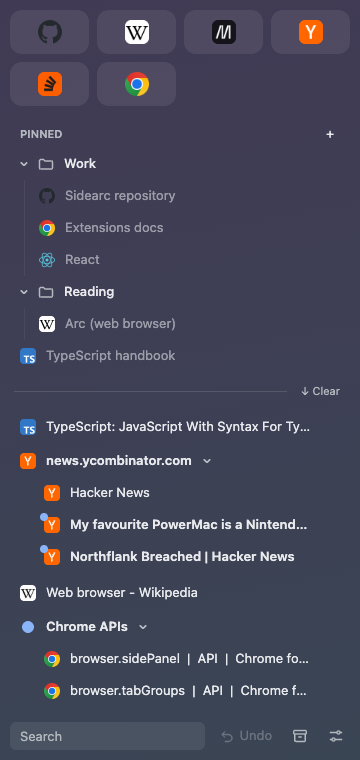
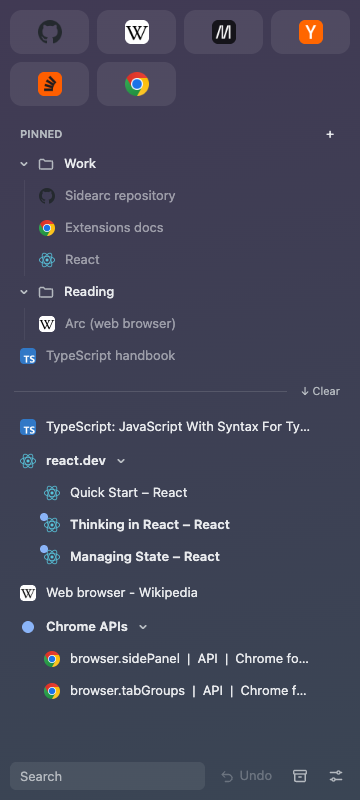
docs: add the privacy policy and the Chrome Web Store listing
The store asks for a privacy policy URL, because Sidearc reads the addresses of tabs. docs/store/listing.md holds the text, permission justifications and images for each tab of the developer dashboard. The README panel images now show neutral tab titles.

diff --git a/docs/store/listing.md b/docs/store/listing.md
@@ -1,0 +1,101 @@
+# Chrome Web Store listing
+
+This file holds the text and the images to paste into the [Chrome Web Store Developer Dashboard](https://chrome.google.com/webstore/developer/dashboard) for Sidearc. The dashboard is the Google site where a developer uploads an extension and fills its store page. Each section below matches one tab of the dashboard.
+
+## Package
+
+1. Run `npm run zip`. WXT, the build tool of Sidearc, writes `.output/sidearc-<version>-chrome.zip`.
+2. Upload this ZIP file in the **Package** tab.
+
+Before each release, increase `version` in `package.json`. The store refuses a version that it already has.
+
+## Store listing tab
+
+**Name** (from the manifest): Sidearc
+
+**Summary** (from the manifest, 132 characters at most): An Arc-like sidebar in the Chrome side panel.
+
+**Category**: Workflow & Planning
+
+**Language**: English
+
+**Description**:
+
+```text
+Sidearc brings the sidebar of the Arc browser to Chrome. It shows one vertical list in the Chrome side panel. The list mixes your saved links with your open tabs.
+
+FAVORITES AND PINNED TABS
+• Favorites show as large icons at the top of the panel.
+• Pinned Tabs are saved links in a tree of Folders.
+• Each saved link opens one real tab. Reset sends the tab back to the saved address.
+
+YOUR OPEN TABS
+• The Today section lists the open tabs of all your windows, in the order of the tab strip.
+• Chrome tab groups show as blocks that you can collapse.
+• Tabs that you open from one another on the same site form a Site group.
+• A click on a tab of another window moves the tab into your window. The tab does not reload.
+
+LESS CLUTTER
+• Auto Archive closes a tab that you did not view for 12 hours. You can change the delay.
+• View Archive keeps the closed tabs for 30 days, so you can reopen them.
+• Search, multi-select, drag and drop, and Undo work in the whole panel.
+
+MOVE FROM ARC
+• Import one Arc space from the StorableSidebar.json file of Arc.
+• Export and import your data as a JSON backup.
+
+PRIVATE
+Sidearc keeps all its data in your browser. It makes no network request and collects no data.
+
+Keyboard shortcuts: Alt+Shift+S opens the panel. Alt+Shift+P pins the current tab.
+
+Sidearc is free software under the GPL-3.0-or-later license. Source code: https://github.com/DeLoWaN/Sidearc
+```
+
+**Images**: upload the files of `docs/store/`:
+
+| Dashboard field  | File                                                                          | Size     |
+| ---------------- | ----------------------------------------------------------------------------- | -------- |
+| Store icon       | `public/icon/128.png`                                                         | 128×128  |
+| Screenshots      | `screenshot-1-panel.png`, `screenshot-2-dark.png`, `screenshot-3-options.png` | 1280×800 |
+| Small promo tile | `promo-small.png`                                                             | 440×280  |
+
+**Homepage URL**: https://github.com/DeLoWaN/Sidearc
+
+**Support URL**: https://github.com/DeLoWaN/Sidearc/issues
+
+## Privacy tab
+
+**Single purpose**:
+
+```text
+Sidearc shows the user's saved links and open tabs as one vertical sidebar in the Chrome side panel, as the Arc browser does.
+```
+
+**Permission justifications**:
+
+| Permission                                   | Justification                                                                                                                                       |
+| -------------------------------------------- | --------------------------------------------------------------------------------------------------------------------------------------------------- |
+| `sidePanel`                                  | Sidearc shows its sidebar in the Chrome side panel.                                                                                                 |
+| `tabs`                                       | The sidebar lists the open tabs with their titles and addresses, and opens, moves, activates and closes tabs when the user asks.                    |
+| `tabGroups`                                  | The sidebar shows Chrome tab groups, and moves or collapses a group when the user does it in the sidebar.                                           |
+| `storage`                                    | Sidearc keeps the saved links, Folders, settings and the list of archived tabs on the device.                                                       |
+| `alarms`                                     | Auto Archive checks on a timer for tabs that the user did not view for the delay that the user chose.                                               |
+| `favicon`                                    | The sidebar shows the icon of each saved link from the Chrome icon cache, with no network request.                                                  |
+| Host permission (content script on all URLs) | In a tab that belongs to a saved link, a click on a link to another site opens in a new tab. The script only reads the address of the clicked link. |
+
+**Remote code**: No, I am not using remote code.
+
+**Data usage**: Sidearc reads the titles and addresses of open tabs and keeps them on the device. It sends no data off the device. Check the current definitions in the dashboard help before you tick a data type: the answer depends on whether the store counts data that stays on the device.
+
+Tick the three certifications: no sale of data, no use unrelated to the single purpose, no use for credit decisions.
+
+**Privacy policy URL**: https://github.com/DeLoWaN/Sidearc/blob/main/PRIVACY.md
+
+## Distribution tab
+
+**Visibility**: Public, or Unlisted for a first test. An unlisted item has a store page, but only people with the link find it.
+
+## Review
+
+The content script on all sites asks for access to every site. The store reviews such an extension more closely, so the first review can take several days.

diff --git a/PRIVACY.md b/PRIVACY.md
@@ -1,0 +1,41 @@
+# Sidearc privacy policy
+
+Last update: 2026-10-30
+
+Sidearc is a Chrome extension that shows the sidebar of the Arc browser in the Chrome side panel. This page tells you which data Sidearc reads, where it keeps that data, and who can see it.
+
+In short: Sidearc keeps all its data in your browser. It sends no data to Damien Gustave, to Google, or to any other person or server.
+
+## Data that Sidearc reads
+
+- **Your open tabs.** Sidearc reads the title, the address (URL) and the icon of each tab, and the Chrome tab groups. It needs them to show your tabs in the panel.
+- **Link clicks in live tabs.** A live tab is the real Chrome tab that belongs to a saved link (a Favorite or a Pinned Tab). In each page, a small Sidearc script waits for a click on a link. When the page is a live tab and the link goes to another site, the script sends the address of the link to Sidearc, and Sidearc opens it in a new tab. The script reads nothing else in the page.
+- **The Arc file that you select.** When you import from Arc, Sidearc reads the file `StorableSidebar.json` that you select in the file window. It keeps the saved links of one Arc space and ignores the rest of the file.
+
+## Where Sidearc keeps your data
+
+Sidearc keeps its data in the extension storage of Chrome, on your computer:
+
+- **Local storage** keeps your Favorites, Pinned Tabs, Folders and settings. It also keeps View Archive: the title, address and icon of each tab that Sidearc closed automatically. View Archive removes a tab after 30 days.
+- **Session storage** keeps the state of your open tabs, for example the Site groups and the log of the Troubleshooting section. Chrome clears it when it quits.
+
+Sidearc does not use the Chrome sync storage. Your data does not go to other computers.
+
+## Data that leaves your browser
+
+None. Sidearc makes no network request. It has no analytics, no advertising, no tracking and no code from a remote server.
+
+Two actions put data outside the extension, and only when you ask for them:
+
+- **Export backup** saves your data to a JSON file on your computer, at the place that you choose.
+- **Copy URL** and the other copy buttons put text in your clipboard.
+
+## How to remove your data
+
+Remove Sidearc from `chrome://extensions`. Chrome then deletes all the data of the extension. A backup file that you exported stays on your computer until you delete it.
+
+## Changes and contact
+
+When this policy changes, the date at the top changes too. The history of this file is in the [Sidearc repository](https://github.com/DeLoWaN/Sidearc/commits/main/PRIVACY.md).
+
+For a question, open an issue in the [Sidearc repository](https://github.com/DeLoWaN/Sidearc/issues).

diff --git a/README.md b/README.md
@@ -92,7 +92,7 @@ Sidearc asks Chrome for these permissions:
 | `favicon`           | Shows site icons from the Chrome icon cache.                                     |
 | Access to all sites | A small script in each page checks link clicks in live tabs, for the link guard. |
 
-Your data stays on your computer, in the extension storage of Chrome. Sidearc sends no network request and collects no usage data. Your data does not sync between computers, so use the JSON export as a backup.
+Your data stays on your computer, in the extension storage of Chrome. Sidearc sends no network request and collects no usage data. Your data does not sync between computers, so use the JSON export as a backup. [PRIVACY.md](PRIVACY.md) is the full privacy policy.
 
 ## Known limits
 
